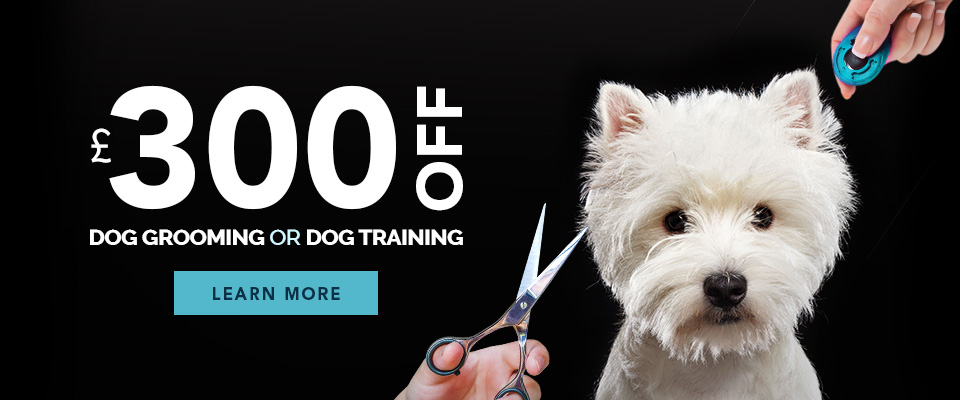
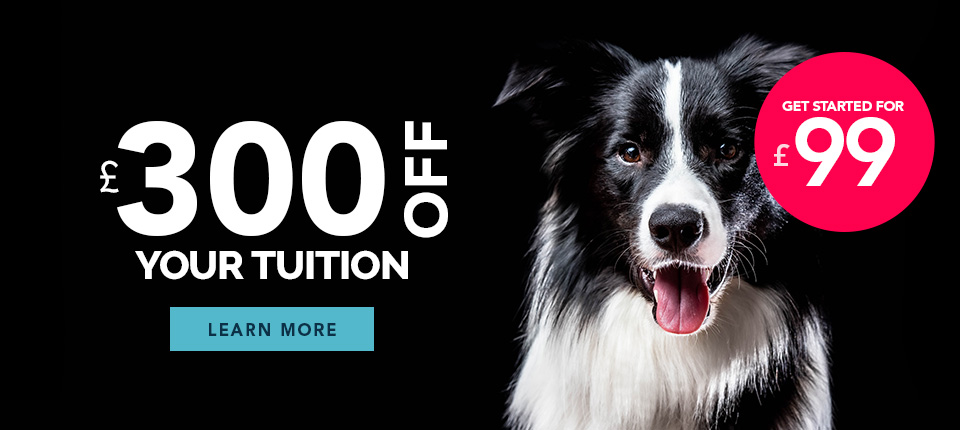
Update images for Pet Jan 18 promotion

diff --git a/src/pages/pet/default/2023/01/18/Promo.tsx b/src/pages/pet/default/2023/01/18/Promo.tsx
@@ -41,7 +41,7 @@ export const PetPromo20230118: FC = () => {
 
   if (desktop) {
     width = 960;
-    height = 400;
+    height = 430;
   } else {
     width = 518;
     height = 566;
